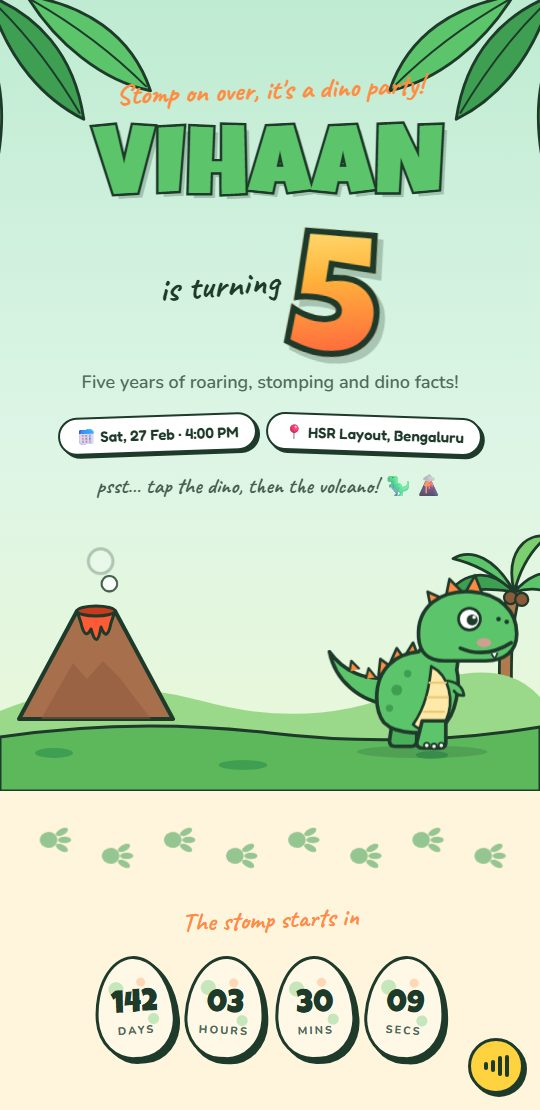
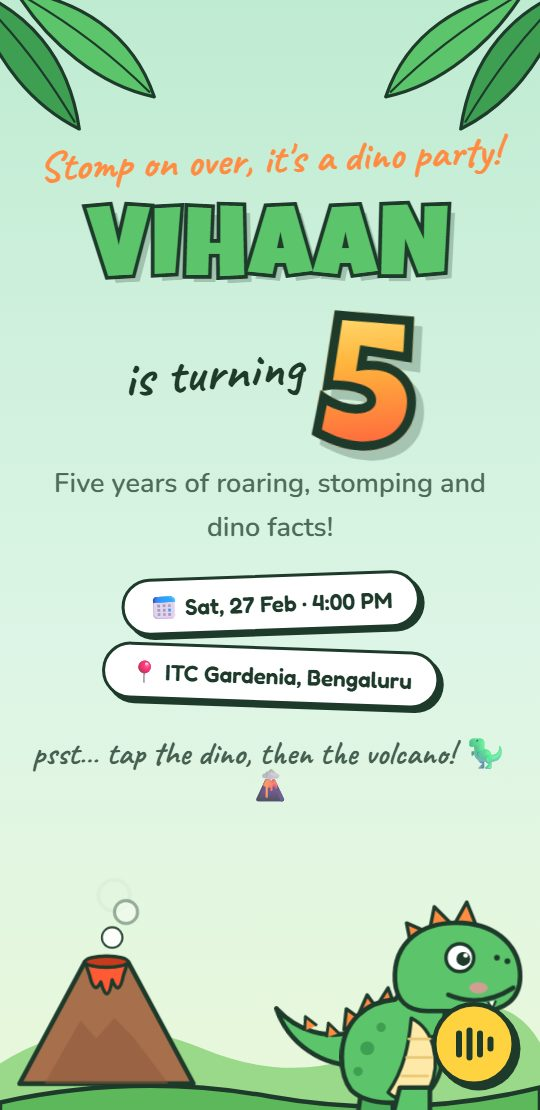
Demos: use real venues instead of fictional ones
Engagement ITC Windsor, baby shower The Oberoi, naming ceremony Taj
West End, first birthday JW Marriott, dino ITC Gardenia, Navratri
Palace Grounds, sunset beach Taj Fort Aguada; housewarming points near
Phoenix Marketcity (no real flat number). Maps, calendar links, .ics
and previews updated; designs page previews cache-busted.

diff --git a/dino-birthday/index.html b/dino-birthday/index.html
@@ -4,12 +4,12 @@
 <meta charset="UTF-8">
 <meta name="viewport" content="width=device-width, initial-scale=1.0">
 <title>Vihaan Turns 5! — Dino Birthday Party Invitation</title>
-<meta name="description" content="Join us for Vihaan's 5th birthday dino party on Saturday, 27 February 2027, 4:00 PM at Fern Valley Play Park, HSR Layout, Bengaluru.">
+<meta name="description" content="Join us for Vihaan's 5th birthday dino party on Saturday, 27 February 2027, 4:00 PM at ITC Gardenia, Residency Road, Bengaluru.">
 <!-- WhatsApp / social link preview -->
 <meta property="og:type" content="website">
 <meta property="og:site_name" content="Invitashion">
 <meta property="og:title" content="ROAR! Vihaan is turning 5 🦖 You're invited">
-<meta property="og:description" content="Dino birthday party · Sat, 27 Feb 2027 · 4:00 PM · HSR Layout, Bengaluru. Tap to hatch your invitation.">
+<meta property="og:description" content="Dino birthday party · Sat, 27 Feb 2027 · 4:00 PM · ITC Gardenia, Bengaluru. Tap to hatch your invitation.">
 <meta property="og:url" content="https://invitashion.online/dino-birthday/">
 <meta property="og:image" content="https://invitashion.online/dino-birthday/og.jpg">
 <meta property="og:image:secure_url" content="https://invitashion.online/dino-birthday/og.jpg">
@@ -315,7 +315,7 @@ footer small{display:block;margin-top:8px;color:var(--lime);font-weight:800;lett
     <h1><span class="name">Vihaan</span>
       <span class="turn-row"><span class="turns">is turning</span><span class="five" aria-label="five">5</span></span></h1>
     <p class="sub">Five years of roaring, stomping and dino facts!</p>
-    <div class="chips"><span>📅 Sat, 27 Feb · 4:00 PM</span><span>📍 HSR Layout, Bengaluru</span></div>
+    <div class="chips"><span>📅 Sat, 27 Feb · 4:00 PM</span><span>📍 ITC Gardenia, Bengaluru</span></div>
     <div class="tap-hint">psst… tap the dino, then the volcano! 🦖🌋</div>
   </div>
   <div class="stage">
@@ -471,15 +471,15 @@ footer small{display:block;margin-top:8px;color:var(--lime);font-weight:800;lett
         <div class="big">Saturday, 27 February 2027</div>
         <p>4:00 PM to 7:30 PM · cake at 5:30 PM</p>
         <div class="btns">
-          <a class="btn btn-leaf" href="https://calendar.google.com/calendar/render?action=TEMPLATE&text=Vihaan%27s+5th+Birthday+Dino+Party&dates=20270227T103000Z/20270227T140000Z&details=Fossil+dig%2C+egg+hunt%2C+volcano+cake+and+dinner.+Invitation%3A+https%3A%2F%2Finvitashion.online%2Fdino-birthday%2F&location=Fern+Valley+Play+Park%2C+HSR+Layout%2C+Bengaluru" target="_blank" rel="noopener">Google Calendar</a>
+          <a class="btn btn-leaf" href="https://calendar.google.com/calendar/render?action=TEMPLATE&text=Vihaan%27s+5th+Birthday+Dino+Party&dates=20270227T103000Z/20270227T140000Z&details=Fossil+dig%2C+egg+hunt%2C+volcano+cake+and+dinner.+Invitation%3A+https%3A%2F%2Finvitashion.online%2Fdino-birthday%2F&location=ITC+Gardenia%2C+Residency+Road%2C+Bengaluru" target="_blank" rel="noopener">Google Calendar</a>
           <a class="btn" href="dino-birthday.ics" download>Apple / Outlook</a>
         </div>
       </div>
       <div class="card reveal">
         <h3><span class="ico">📍</span>Where</h3>
-        <div class="big">Fern Valley Play Park</div>
-        <p>27th Main Road, HSR Layout Sector 2, Bengaluru</p>
-        <div class="btns"><a class="btn btn-sun" href="https://www.google.com/maps/search/?api=1&query=HSR+Layout+Sector+2+Bengaluru" target="_blank" rel="noopener">📍 View map</a></div>
+        <div class="big">ITC Gardenia</div>
+        <p>1 Residency Road, Bengaluru 560025</p>
+        <div class="btns"><a class="btn btn-sun" href="https://www.google.com/maps/search/?api=1&query=ITC+Gardenia+Bengaluru" target="_blank" rel="noopener">📍 View map</a></div>
       </div>
       <div class="card wide reveal">
         <h3><span class="ico">🦕</span>The party trail</h3>

diff --git a/first-birthday/index.html b/first-birthday/index.html
@@ -4,12 +4,12 @@
 <meta charset="UTF-8">
 <meta name="viewport" content="width=device-width, initial-scale=1.0">
 <title>Aarya Turns One! — First Birthday Party Invitation</title>
-<meta name="description" content="Join us for Aarya's first birthday party on Saturday, 20 February 2027, 6:30 PM at The Balloon Loft, JP Nagar, Bengaluru.">
+<meta name="description" content="Join us for Aarya's first birthday party on Saturday, 20 February 2027, 6:30 PM at JW Marriott Hotel Bengaluru, Vittal Mallya Road.">
 <!-- WhatsApp / social link preview -->
 <meta property="og:type" content="website">
 <meta property="og:site_name" content="Invitashion">
 <meta property="og:title" content="Aarya turns ONE! 🎈 You're invited">
-<meta property="og:description" content="First birthday party · Sat, 20 Feb 2027 · 6:30 PM · JP Nagar, Bengaluru. Tap to unwrap your invitation.">
+<meta property="og:description" content="First birthday party · Sat, 20 Feb 2027 · 6:30 PM · JW Marriott, Bengaluru. Tap to unwrap your invitation.">
 <meta property="og:url" content="https://invitashion.online/first-birthday/">
 <meta property="og:image" content="https://invitashion.online/first-birthday/og.jpg">
 <meta property="og:image:secure_url" content="https://invitashion.online/first-birthday/og.jpg">
@@ -267,7 +267,7 @@ footer small{display:block;margin-top:8px;color:var(--mint);font-weight:800;lett
     <h1><span class="name">Aarya</span><span class="turns">is turning</span></h1>
     <div class="one" aria-label="one">1</div>
     <p class="sub">Our little sunshine's very first birthday!</p>
-    <div class="chips"><span>📅 Sat, 20 Feb · 6:30 PM</span><span>📍 JP Nagar, Bengaluru</span></div>
+    <div class="chips"><span>📅 Sat, 20 Feb · 6:30 PM</span><span>📍 JW Marriott, Bengaluru</span></div>
     <div class="pop-hint">psst… pop the balloons! 🎈</div>
   </div>
 </header>
@@ -357,15 +357,15 @@ footer small{display:block;margin-top:8px;color:var(--mint);font-weight:800;lett
         <div class="big">Saturday, 20 February 2027</div>
         <p>6:30 PM onwards · cake cutting at 7:30 PM</p>
         <div class="btns">
-          <a class="btn btn-pink" href="https://calendar.google.com/calendar/render?action=TEMPLATE&text=Aarya%27s+1st+Birthday+Party&dates=20270220T130000Z/20270220T160000Z&details=Cake%2C+games+and+dinner.+Invitation%3A+https%3A%2F%2Finvitashion.online%2Ffirst-birthday%2F&location=The+Balloon+Loft%2C+JP+Nagar%2C+Bengaluru" target="_blank" rel="noopener">Google Calendar</a>
+          <a class="btn btn-pink" href="https://calendar.google.com/calendar/render?action=TEMPLATE&text=Aarya%27s+1st+Birthday+Party&dates=20270220T130000Z/20270220T160000Z&details=Cake%2C+games+and+dinner.+Invitation%3A+https%3A%2F%2Finvitashion.online%2Ffirst-birthday%2F&location=JW+Marriott+Hotel%2C+Vittal+Mallya+Road%2C+Bengaluru" target="_blank" rel="noopener">Google Calendar</a>
           <a class="btn" href="first-birthday.ics" download>Apple / Outlook</a>
         </div>
       </div>
       <div class="card reveal">
         <h3><span class="ico">📍</span>Where</h3>
-        <div class="big">The Balloon Loft</div>
-        <p>24th Main Road, JP Nagar 2nd Phase, Bengaluru</p>
-        <div class="btns"><a class="btn btn-mint" href="https://www.google.com/maps/search/?api=1&query=JP+Nagar+2nd+Phase+Bengaluru" target="_blank" rel="noopener">📍 View map</a></div>
+        <div class="big">JW Marriott Hotel Bengaluru</div>
+        <p>24/1 Vittal Mallya Road, Bengaluru 560001</p>
+        <div class="btns"><a class="btn btn-mint" href="https://www.google.com/maps/search/?api=1&query=JW+Marriott+Hotel+Bengaluru+Vittal+Mallya+Road" target="_blank" rel="noopener">📍 View map</a></div>
       </div>
       <div class="card wide reveal">
         <h3><span class="ico">🎈</span>What's happening</h3>

diff --git a/designs/index.html b/designs/index.html
@@ -170,7 +170,7 @@ footer .logo-img img{height:40px;margin:0 auto 8px}
           </div>
         </article>
         <article class="tpl">
-          <a class="tpl-phone" href="../engagement/" aria-label="Open the Ring Box Engagement demo"><img src="../engagement/preview.jpg" alt="Ring Box Engagement invitation on a phone" width="540" height="1110" loading="lazy"><span class="tpl-view">▶ View</span></a>
+          <a class="tpl-phone" href="../engagement/" aria-label="Open the Ring Box Engagement demo"><img src="../engagement/preview.jpg?v=2" alt="Ring Box Engagement invitation on a phone" width="540" height="1110" loading="lazy"><span class="tpl-view">▶ View</span></a>
           <div class="tpl-body">
             <h3>Ring Box Engagement</h3>
             <p>A velvet ring box opens to a sparkling ring, then your love story, fun couple polls and a romantic piano ballad.</p>
@@ -196,7 +196,7 @@ footer .logo-img img{height:40px;margin:0 auto 8px}
           </div>
         </article>
         <article class="tpl">
-          <a class="tpl-phone" href="../naming-ceremony/" aria-label="Open the Secret Name Naming Ceremony demo"><img src="../naming-ceremony/preview.jpg" alt="Secret Name Naming Ceremony invitation on a phone" width="540" height="1110" loading="lazy"><span class="tpl-view">▶ View</span></a>
+          <a class="tpl-phone" href="../naming-ceremony/" aria-label="Open the Secret Name Naming Ceremony demo"><img src="../naming-ceremony/preview.jpg?v=2" alt="Secret Name Naming Ceremony invitation on a phone" width="540" height="1110" loading="lazy"><span class="tpl-view">▶ View</span></a>
           <div class="tpl-body">
             <h3>Secret Name Naming Ceremony</h3>
             <p>Clouds part into dawn. Guests try to peek at the secret name, guess its first letter and seal their guess for the ceremony.</p>
@@ -212,7 +212,7 @@ footer .logo-img img{height:40px;margin:0 auto 8px}
       <div class="cat-head"><span class="cat-ico" aria-hidden="true">🎂</span><div><h2>Birthdays</h2><p>First birthdays, kids' parties and milestone celebrations</p></div></div>
       <div class="tpl-grid">
         <article class="tpl">
-          <a class="tpl-phone" href="../first-birthday/" aria-label="Open the First Birthday Party demo"><img src="../first-birthday/preview.jpg" alt="First Birthday Party invitation on a phone" width="540" height="1110" loading="lazy"><span class="tpl-view">▶ View</span></a>
+          <a class="tpl-phone" href="../first-birthday/" aria-label="Open the First Birthday Party demo"><img src="../first-birthday/preview.jpg?v=2" alt="First Birthday Party invitation on a phone" width="540" height="1110" loading="lazy"><span class="tpl-view">▶ View</span></a>
           <div class="tpl-body">
             <h3>First Birthday Party</h3>
             <p>Unwrap a gift box, pop balloons, blow out the candle and send a wish. Happy Birthday plays on a xylophone.</p>
@@ -222,7 +222,7 @@ footer .logo-img img{height:40px;margin:0 auto 8px}
           </div>
         </article>
         <article class="tpl">
-          <a class="tpl-phone" href="../dino-birthday/" aria-label="Open the Dino Roar Birthday demo"><img src="../dino-birthday/preview.jpg" alt="Dino Roar Birthday invitation on a phone" width="540" height="1110" loading="lazy"><span class="tpl-view">▶ View</span></a>
+          <a class="tpl-phone" href="../dino-birthday/" aria-label="Open the Dino Roar Birthday demo"><img src="../dino-birthday/preview.jpg?v=2" alt="Dino Roar Birthday invitation on a phone" width="540" height="1110" loading="lazy"><span class="tpl-view">▶ View</span></a>
           <div class="tpl-body">
             <h3>Dino Roar Birthday</h3>
             <p>Hatch a dino egg, make the T-rex roar and the volcano erupt, then get a Dino Crew pass with your own dino name.</p>

diff --git a/baby-shower/index.html b/baby-shower/index.html
@@ -4,7 +4,7 @@
 <meta charset="UTF-8">
 <meta name="viewport" content="width=device-width, initial-scale=1.0">
 <title>Oh Baby! — A Woodland Baby Shower for Maya &amp; Arjun</title>
-<meta name="description" content="Join us for a woodland baby shower for Maya and Arjun on Sunday, 13 December 2026, at Willow &amp; Moss Garden Café, Bengaluru.">
+<meta name="description" content="Join us for a woodland baby shower for Maya and Arjun on Sunday, 13 December 2026, at The Oberoi, MG Road, Bengaluru.">
 <!-- WhatsApp / social link preview -->
 <meta property="og:type" content="website">
 <meta property="og:site_name" content="Invitashion">
@@ -484,24 +484,24 @@ footer .made{display:inline-block;margin-top:14px;font-size:13px;color:var(--but
   <div class="wrap center">
     <div class="reveal">
       <div class="kicker">Where</div>
-      <h2 class="title">Willow &amp; <em>Moss</em></h2>
-      <p class="lead">A leafy garden café tucked away in Indiranagar.</p>
+      <h2 class="title">The <em>Oberoi</em></h2>
+      <p class="lead">A leafy garden setting on MG Road, in the heart of the city.</p>
     </div>
     <div class="venue-card reveal">
       <div class="wash" style="width:220px;height:220px;left:-90px;top:-90px;background:var(--butter);opacity:.5"></div>
       <div class="wash" style="width:220px;height:220px;right:-90px;bottom:-90px;background:var(--mint);opacity:.8"></div>
-      <h3>Willow &amp; Moss Garden Café</h3>
-      <p>12th Main Road, Indiranagar, Bengaluru 560038</p>
+      <h3>The Oberoi, Bengaluru</h3>
+      <p>37–39 MG Road, Bengaluru 560001</p>
       <p>Sunday, 13 December 2026 · 11:00 AM – 2:00 PM</p>
       <div class="btns">
-        <a class="btn btn-fox" href="https://www.google.com/maps/search/?api=1&query=Indiranagar+Bengaluru" target="_blank" rel="noopener">&#128205; View Map</a>
-        <a class="btn btn-moss" href="https://calendar.google.com/calendar/render?action=TEMPLATE&text=Maya+%26+Arjun%27s+Baby+Shower&dates=20261213T053000Z/20261213T083000Z&details=A+woodland+baby+shower+brunch.+Invitation%3A+https%3A%2F%2Finvitashion.online%2Fbaby-shower%2F&location=Willow+%26+Moss+Garden+Caf%C3%A9%2C+Indiranagar%2C+Bengaluru" target="_blank" rel="noopener">&#128197; Google Calendar</a>
+        <a class="btn btn-fox" href="https://www.google.com/maps/search/?api=1&query=The+Oberoi+Bengaluru+MG+Road" target="_blank" rel="noopener">&#128205; View Map</a>
+        <a class="btn btn-moss" href="https://calendar.google.com/calendar/render?action=TEMPLATE&text=Maya+%26+Arjun%27s+Baby+Shower&dates=20261213T053000Z/20261213T083000Z&details=A+woodland+baby+shower+brunch.+Invitation%3A+https%3A%2F%2Finvitashion.online%2Fbaby-shower%2F&location=The+Oberoi%2C+MG+Road%2C+Bengaluru" target="_blank" rel="noopener">&#128197; Google Calendar</a>
         <a class="btn btn-line" href="baby-shower.ics" download>Apple / Outlook</a>
       </div>
     </div>
     <div class="notes">
-      <div class="note reveal"><b>Parking</b><span>Valet at the gate, or a short walk from Indiranagar metro.</span></div>
-      <div class="note reveal"><b>Little ones</b><span>Kids are very welcome. There's a shady play corner on the lawn.</span></div>
+      <div class="note reveal"><b>Parking</b><span>Valet at the hotel, or a short walk from Trinity metro.</span></div>
+      <div class="note reveal"><b>Little ones</b><span>Kids are very welcome. We'll have a little play corner for them.</span></div>
       <div class="note reveal"><b>Gifts</b><span>Your love is plenty. If you'd like, bring a favourite children's book with a note inside.</span></div>
     </div>
   </div>

diff --git a/naming-ceremony/index.html b/naming-ceremony/index.html
@@ -4,12 +4,12 @@
 <meta charset="UTF-8">
 <meta name="viewport" content="width=device-width, initial-scale=1.0">
 <title>Our Little One Has a Name! — Naming Ceremony Invitation</title>
-<meta name="description" content="Shruti and Aditya invite you to their baby boy's naming ceremony on Sunday, 21 March 2027, 10:30 AM at Tulsi Gardens, Jayanagar, Bengaluru.">
+<meta name="description" content="Shruti and Aditya invite you to their baby boy's naming ceremony on Sunday, 21 March 2027, 10:30 AM at Taj West End, Race Course Road, Bengaluru.">
 <!-- WhatsApp / social link preview -->
 <meta property="og:type" content="website">
 <meta property="og:site_name" content="Invitashion">
 <meta property="og:title" content="Our little one has a name! ✨ Come find out">
-<meta property="og:description" content="Naming ceremony · Sun, 21 Mar 2027 · 10:30 AM · Jayanagar, Bengaluru. Open the invitation to reveal his name.">
+<meta property="og:description" content="Naming ceremony · Sun, 21 Mar 2027 · 10:30 AM · Taj West End, Bengaluru. Open the invitation to reveal his name.">
 <meta property="og:url" content="https://invitashion.online/naming-ceremony/">
 <meta property="og:image" content="https://invitashion.online/naming-ceremony/og.jpg">
 <meta property="og:image:secure_url" content="https://invitashion.online/naming-ceremony/og.jpg">
@@ -241,7 +241,7 @@ footer small{display:block;margin-top:8px;color:#FFD3BC;font-weight:800;letter-s
       <button class="block" type="button" aria-label="Secret letter">?</button>
     </div>
     <div class="peek" id="peek" aria-live="polite">Go on, try to peek 👀</div>
-    <div class="chips"><span>📅 Sun, 21 Mar · 10:30 AM</span><span>📍 Jayanagar, Bengaluru</span></div>
+    <div class="chips"><span>📅 Sun, 21 Mar · 10:30 AM</span><span>📍 Taj West End, Bengaluru</span></div>
   </div>
 </header>
 
@@ -325,11 +325,11 @@ footer small{display:block;margin-top:8px;color:#FFD3BC;font-weight:800;letter-s
       </div>
       <div class="card reveal">
         <h3>📍 Venue</h3>
-        <div class="big">Tulsi Gardens</div>
-        <p>11th Main Road, 4th Block, Jayanagar, Bengaluru</p>
+        <div class="big">Taj West End</div>
+        <p>25 Race Course Road, Bengaluru 560001</p>
         <div class="btns">
-          <a class="btn btn-lav" href="https://www.google.com/maps/search/?api=1&query=Jayanagar+4th+Block+Bengaluru" target="_blank" rel="noopener">📍 View map</a>
-          <a class="btn btn-peach" href="https://calendar.google.com/calendar/render?action=TEMPLATE&text=Naming+Ceremony+-+Shruti+%26+Aditya%27s+baby&dates=20270321T050000Z/20270321T090000Z&details=Naming+ceremony+at+10%3A30+AM%2C+lunch+at+12%3A30+PM.+Invitation%3A+https%3A%2F%2Finvitashion.online%2Fnaming-ceremony%2F&location=Tulsi+Gardens%2C+Jayanagar%2C+Bengaluru" target="_blank" rel="noopener">Google Calendar</a>
+          <a class="btn btn-lav" href="https://www.google.com/maps/search/?api=1&query=Taj+West+End+Bengaluru" target="_blank" rel="noopener">📍 View map</a>
+          <a class="btn btn-peach" href="https://calendar.google.com/calendar/render?action=TEMPLATE&text=Naming+Ceremony+-+Shruti+%26+Aditya%27s+baby&dates=20270321T050000Z/20270321T090000Z&details=Naming+ceremony+at+10%3A30+AM%2C+lunch+at+12%3A30+PM.+Invitation%3A+https%3A%2F%2Finvitashion.online%2Fnaming-ceremony%2F&location=Taj+West+End%2C+Race+Course+Road%2C+Bengaluru" target="_blank" rel="noopener">Google Calendar</a>
           <a class="btn" href="naming-ceremony.ics" download>Apple / Outlook</a>
         </div>
       </div>

diff --git a/goa-beach/index.html b/goa-beach/index.html
@@ -4,7 +4,7 @@
 <meta charset="UTF-8">
 <meta name="viewport" content="width=device-width, initial-scale=1.0">
 <title>Isha &amp; Aarav — A Goa Sunset Wedding</title>
-<meta name="description" content="Isha and Aarav are getting married on Sunday, 1 November 2026, at Candolim Beach, Goa.">
+<meta name="description" content="Isha and Aarav are getting married on Sunday, 1 November 2026, at Taj Fort Aguada Resort &amp; Spa, Candolim, Goa.">
 <!-- WhatsApp / social link preview -->
 <meta property="og:type" content="website">
 <meta property="og:title" content="Isha & Aarav are getting married 💍">
@@ -312,7 +312,7 @@ footer small{display:block;margin-top:22px;font-size:12px;letter-spacing:2px;tex
     <div class="center reveal">
       <div class="kicker">The Celebrations</div>
       <h2 class="title">Two days by the sea</h2>
-      <p class="lead">All events are at Casa Maré, Candolim Beach.</p>
+      <p class="lead">All events are at Taj Fort Aguada, Candolim.</p>
     </div>
     <div class="timeline">
       <div class="event e-haldi reveal">
@@ -352,20 +352,20 @@ footer small{display:block;margin-top:22px;font-size:12px;letter-spacing:2px;tex
   <div class="wrap center">
     <div class="reveal">
       <div class="kicker">The Venue</div>
-      <h2 class="title">Casa Maré</h2>
+      <h2 class="title">Taj Fort Aguada</h2>
       <p class="lead">A sunset-facing beach resort on the shores of Candolim, North Goa.</p>
     </div>
     <div class="venue-card reveal">
-      <h3>Casa Maré Beach Resort</h3>
-      <p>Candolim Beach Road, Candolim, North Goa 403515</p>
+      <h3>Taj Fort Aguada Resort &amp; Spa</h3>
+      <p>Sinquerim, Candolim, North Goa 403515</p>
       <p>45 minutes from Goa International Airport (Dabolim) · 50 minutes from Manohar International Airport (Mopa)</p>
       <div class="btns">
-        <a class="btn btn-coral" href="https://www.google.com/maps/search/?api=1&query=Candolim+Beach+Goa" target="_blank" rel="noopener">&#128205; View Map</a>
+        <a class="btn btn-coral" href="https://www.google.com/maps/search/?api=1&query=Taj+Fort+Aguada+Resort+%26+Spa+Candolim+Goa" target="_blank" rel="noopener">&#128205; View Map</a>
         <button class="btn btn-line" id="calBtn" type="button">&#128197; Add to Calendar</button>
       </div>
     </div>
     <div class="notes">
-      <div class="note reveal"><b>Stay</b><span>Rooms are held for our guests at Casa Maré from 30 Oct to 2 Nov.</span></div>
+      <div class="note reveal"><b>Stay</b><span>Rooms are held for our guests at Taj Fort Aguada from 30 Oct to 2 Nov.</span></div>
       <div class="note reveal"><b>Weather</b><span>Warm days around 32°C with breezy evenings. Bring sunscreen and shades.</span></div>
       <div class="note reveal"><b>Footwear</b><span>Ceremonies are on the sand, so flats or barefoot are perfect.</span></div>
     </div>
@@ -544,7 +544,7 @@ document.getElementById('calBtn').addEventListener('click', () => {
     'BEGIN:VCALENDAR', 'VERSION:2.0', 'PRODID:-//Weddingle//Isha and Aarav//EN',
     'BEGIN:VEVENT', 'UID:isha-aarav-20261101@weddingle',
     'DTSTAMP:20261001T000000Z', 'DTSTART:20261101T110000Z', 'DTEND:20261101T183000Z',
-    'SUMMARY:Isha & Aarav - Wedding', 'LOCATION:Casa Maré Beach Resort\\, Candolim\\, North Goa',
+    'SUMMARY:Isha & Aarav - Wedding', 'LOCATION:Taj Fort Aguada Resort & Spa\\, Sinquerim\\, Candolim\\, Goa',
     'DESCRIPTION:Sunset wedding at 4:30 PM followed by the reception at 8:00 PM.',
     'END:VEVENT', 'END:VCALENDAR'
   ].join('\r\n');

diff --git a/engagement/index.html b/engagement/index.html
@@ -4,7 +4,7 @@
 <meta charset="UTF-8">
 <meta name="viewport" content="width=device-width, initial-scale=1.0">
 <title>Tanvi &amp; Rohan Are Getting Engaged! — Engagement Invitation</title>
-<meta name="description" content="Tanvi and Rohan invite you to their engagement on Saturday, 10 April 2027, 6:00 PM at The Ivory Terrace, Sadashivanagar, Bengaluru.">
+<meta name="description" content="Tanvi and Rohan invite you to their engagement on Saturday, 10 April 2027, 6:00 PM at ITC Windsor, Golf Course Road, Bengaluru.">
 <!-- WhatsApp / social link preview -->
 <meta property="og:type" content="website">
 <meta property="og:site_name" content="Invitashion">
@@ -239,7 +239,7 @@ footer small{display:block;margin-top:8px;color:var(--gold);letter-spacing:2px}
     </svg>
   </button>
   <div class="gem-hint">Tap the ring ✨</div>
-  <div class="chips"><span>Sat, 10 April 2027 · 6 PM</span><span>Sadashivanagar, Bengaluru</span></div>
+  <div class="chips"><span>Sat, 10 April 2027 · 6 PM</span><span>ITC Windsor, Bengaluru</span></div>
 </header>
 
 <!-- COUNTDOWN -->
@@ -311,11 +311,11 @@ footer small{display:block;margin-top:8px;color:var(--gold);letter-spacing:2px}
       </div>
       <div class="card reveal">
         <h3>The venue</h3>
-        <div class="big">The Ivory Terrace</div>
-        <p>Sankey Road, Sadashivanagar, Bengaluru</p>
+        <div class="big">ITC Windsor</div>
+        <p>25 Windsor Square, Golf Course Road, Bengaluru 560052</p>
         <div class="btns">
-          <a class="btn btn-wine" href="https://www.google.com/maps/search/?api=1&query=Sadashivanagar+Bengaluru" target="_blank" rel="noopener">View map</a>
-          <a class="btn btn-gold" href="https://calendar.google.com/calendar/render?action=TEMPLATE&text=Tanvi+%26+Rohan%27s+Engagement&dates=20270410T123000Z/20270410T163000Z&details=Ring+ceremony+at+7+PM%2C+dinner+%26+dance+after.+Invitation%3A+https%3A%2F%2Finvitashion.online%2Fengagement%2F&location=The+Ivory+Terrace%2C+Sadashivanagar%2C+Bengaluru" target="_blank" rel="noopener">Google Calendar</a>
+          <a class="btn btn-wine" href="https://www.google.com/maps/search/?api=1&query=ITC+Windsor+Bengaluru" target="_blank" rel="noopener">View map</a>
+          <a class="btn btn-gold" href="https://calendar.google.com/calendar/render?action=TEMPLATE&text=Tanvi+%26+Rohan%27s+Engagement&dates=20270410T123000Z/20270410T163000Z&details=Ring+ceremony+at+7+PM%2C+dinner+%26+dance+after.+Invitation%3A+https%3A%2F%2Finvitashion.online%2Fengagement%2F&location=ITC+Windsor%2C+Golf+Course+Road%2C+Bengaluru" target="_blank" rel="noopener">Google Calendar</a>
           <a class="btn" href="engagement.ics" download>Apple / Outlook</a>
         </div>
       </div>

diff --git a/housewarming/index.html b/housewarming/index.html
@@ -4,7 +4,7 @@
 <meta charset="UTF-8">
 <meta name="viewport" content="width=device-width, initial-scale=1.0">
 <title>Welcome Home! — Divya &amp; Sameer's Housewarming</title>
-<meta name="description" content="Divya and Sameer invite you to their housewarming on Sunday, 7 March 2027 at Sky Orchard, Whitefield, Bengaluru. Puja at 9:30 AM, lunch at 12:30 PM.">
+<meta name="description" content="Divya and Sameer invite you to their housewarming on Sunday, 7 March 2027 at their new home in Whitefield, Bengaluru. Puja at 9:30 AM, lunch at 12:30 PM.">
 <!-- WhatsApp / social link preview -->
 <meta property="og:type" content="website">
 <meta property="og:site_name" content="Invitashion">
@@ -307,12 +307,12 @@ footer small{display:block;margin-top:8px;color:#FFE2B5;font-weight:800;letter-s
       </div>
       <div class="card reveal">
         <h3>🏡 Our new address</h3>
-        <div class="big">Flat 1204, Sky Orchard</div>
-        <p>Varthur Road, Whitefield, Bengaluru</p>
-        <p style="margin-top:8px;font-size:15px">🚗 Visitor parking at Basement 1</p>
+        <div class="big">Near Phoenix Marketcity</div>
+        <p>Whitefield Main Road, Whitefield, Bengaluru</p>
+        <p style="margin-top:8px;font-size:15px">🔑 We'll share the flat number with you on WhatsApp</p>
         <div class="btns">
-          <a class="btn btn-teal" href="https://www.google.com/maps/search/?api=1&query=Whitefield+Bengaluru" target="_blank" rel="noopener">📍 View map</a>
-          <a class="btn btn-terra" href="https://calendar.google.com/calendar/render?action=TEMPLATE&text=Divya+%26+Sameer%27s+Housewarming&dates=20270307T040000Z/20270307T090000Z&details=Griha+Pravesh+puja+at+9%3A30+AM%2C+lunch+at+12%3A30+PM.+Invitation%3A+https%3A%2F%2Finvitashion.online%2Fhousewarming%2F&location=Sky+Orchard%2C+Varthur+Road%2C+Whitefield%2C+Bengaluru" target="_blank" rel="noopener">Google Calendar</a>
+          <a class="btn btn-teal" href="https://www.google.com/maps/search/?api=1&query=Phoenix+Marketcity+Whitefield+Bengaluru" target="_blank" rel="noopener">📍 View map</a>
+          <a class="btn btn-terra" href="https://calendar.google.com/calendar/render?action=TEMPLATE&text=Divya+%26+Sameer%27s+Housewarming&dates=20270307T040000Z/20270307T090000Z&details=Griha+Pravesh+puja+at+9%3A30+AM%2C+lunch+at+12%3A30+PM.+Invitation%3A+https%3A%2F%2Finvitashion.online%2Fhousewarming%2F&location=Near+Phoenix+Marketcity%2C+Whitefield%2C+Bengaluru" target="_blank" rel="noopener">Google Calendar</a>
           <a class="btn" href="housewarming.ics" download>Apple / Outlook</a>
         </div>
       </div>

diff --git a/navratri/index.html b/navratri/index.html
@@ -4,7 +4,7 @@
 <meta charset="UTF-8">
 <meta name="viewport" content="width=device-width, initial-scale=1.0">
 <title>Navratri Garba Night — Riya &amp; Kunal invite you to dance</title>
-<meta name="description" content="Join Riya and Kunal Patel for a Navratri Garba and Dandiya night on Saturday, 17 October 2026, at Sapphire Lawns, Koramangala, Bengaluru.">
+<meta name="description" content="Join Riya and Kunal Patel for a Navratri Garba and Dandiya night on Saturday, 17 October 2026, at Palace Grounds, Bengaluru.">
 <!-- WhatsApp / social link preview -->
 <meta property="og:type" content="website">
 <meta property="og:site_name" content="Invitashion">
@@ -384,15 +384,15 @@ footer .made{display:inline-block;margin-top:12px;font-size:13px;color:#FFD6E7;t
   <div class="wrap center">
     <div class="reveal">
       <div class="kicker">Where</div>
-      <h2 class="title">Sapphire <em>Lawns</em></h2>
+      <h2 class="title">Palace <em>Grounds</em></h2>
     </div>
     <div class="venue-card reveal">
-      <h3>Sapphire Lawns</h3>
-      <p>80 Feet Road, Koramangala 4th Block, Bengaluru 560034</p>
+      <h3>Palace Grounds</h3>
+      <p>Jayamahal Road, Vasanth Nagar, Bengaluru 560052</p>
       <p>Saturday, 17 October 2026 · 7:30 PM onwards</p>
       <div class="btns">
-        <a class="btn btn-rani" href="https://www.google.com/maps/search/?api=1&query=Koramangala+Bengaluru" target="_blank" rel="noopener">&#128205; View Map</a>
-        <a class="btn btn-royal" href="https://calendar.google.com/calendar/render?action=TEMPLATE&text=Navratri+Garba+Night+with+Riya+%26+Kunal&dates=20261017T140000Z/20261017T183000Z&details=Garba%2C+Dandiya+and+dinner.+Invitation%3A+https%3A%2F%2Finvitashion.online%2Fnavratri%2F&location=Sapphire+Lawns%2C+Koramangala%2C+Bengaluru" target="_blank" rel="noopener">&#128197; Google Calendar</a>
+        <a class="btn btn-rani" href="https://www.google.com/maps/search/?api=1&query=Palace+Grounds+Bengaluru" target="_blank" rel="noopener">&#128205; View Map</a>
+        <a class="btn btn-royal" href="https://calendar.google.com/calendar/render?action=TEMPLATE&text=Navratri+Garba+Night+with+Riya+%26+Kunal&dates=20261017T140000Z/20261017T183000Z&details=Garba%2C+Dandiya+and+dinner.+Invitation%3A+https%3A%2F%2Finvitashion.online%2Fnavratri%2F&location=Palace+Grounds%2C+Jayamahal+Road%2C+Bengaluru" target="_blank" rel="noopener">&#128197; Google Calendar</a>
         <a class="btn btn-line" href="navratri.ics" download>Apple / Outlook</a>
       </div>
     </div>
